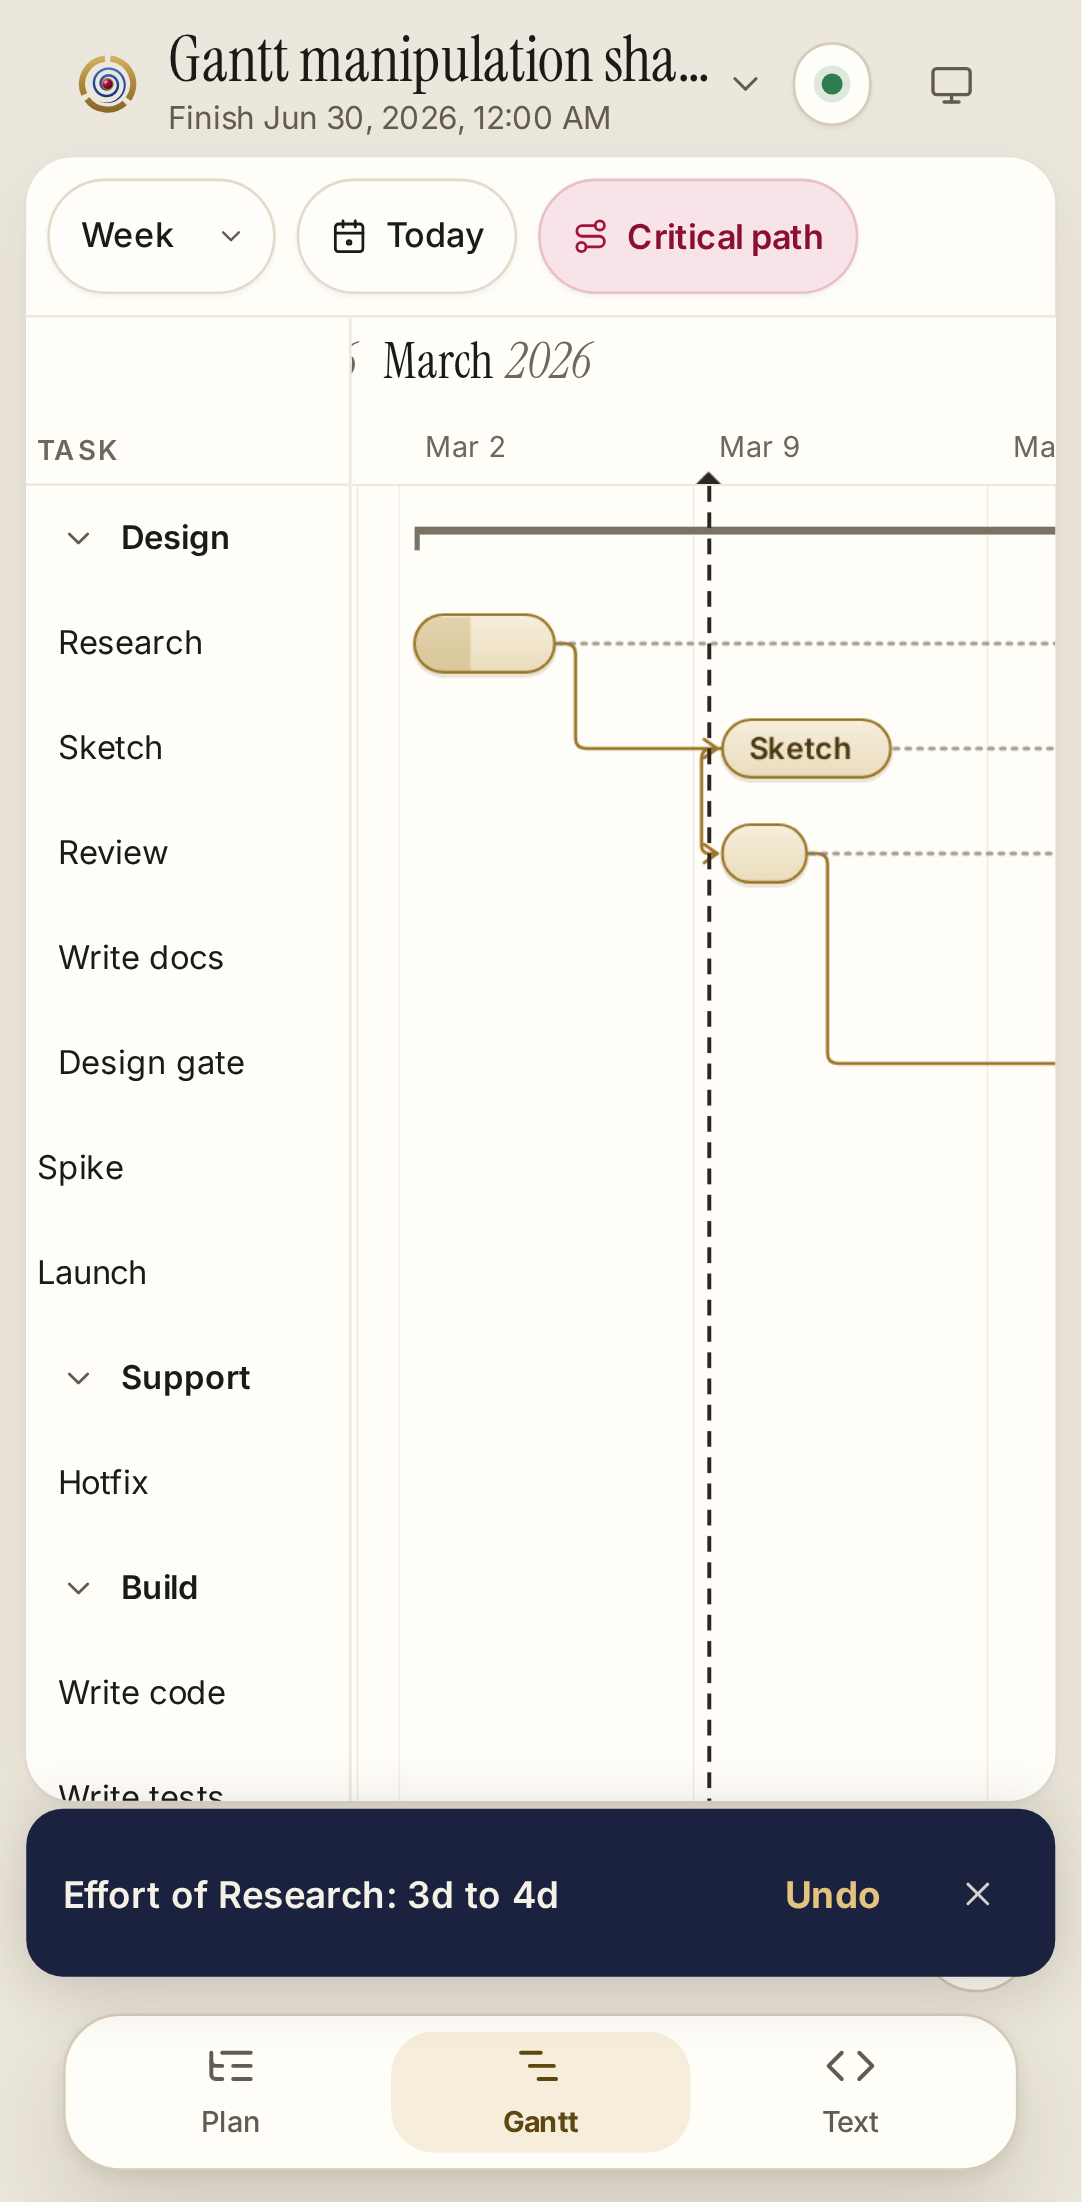
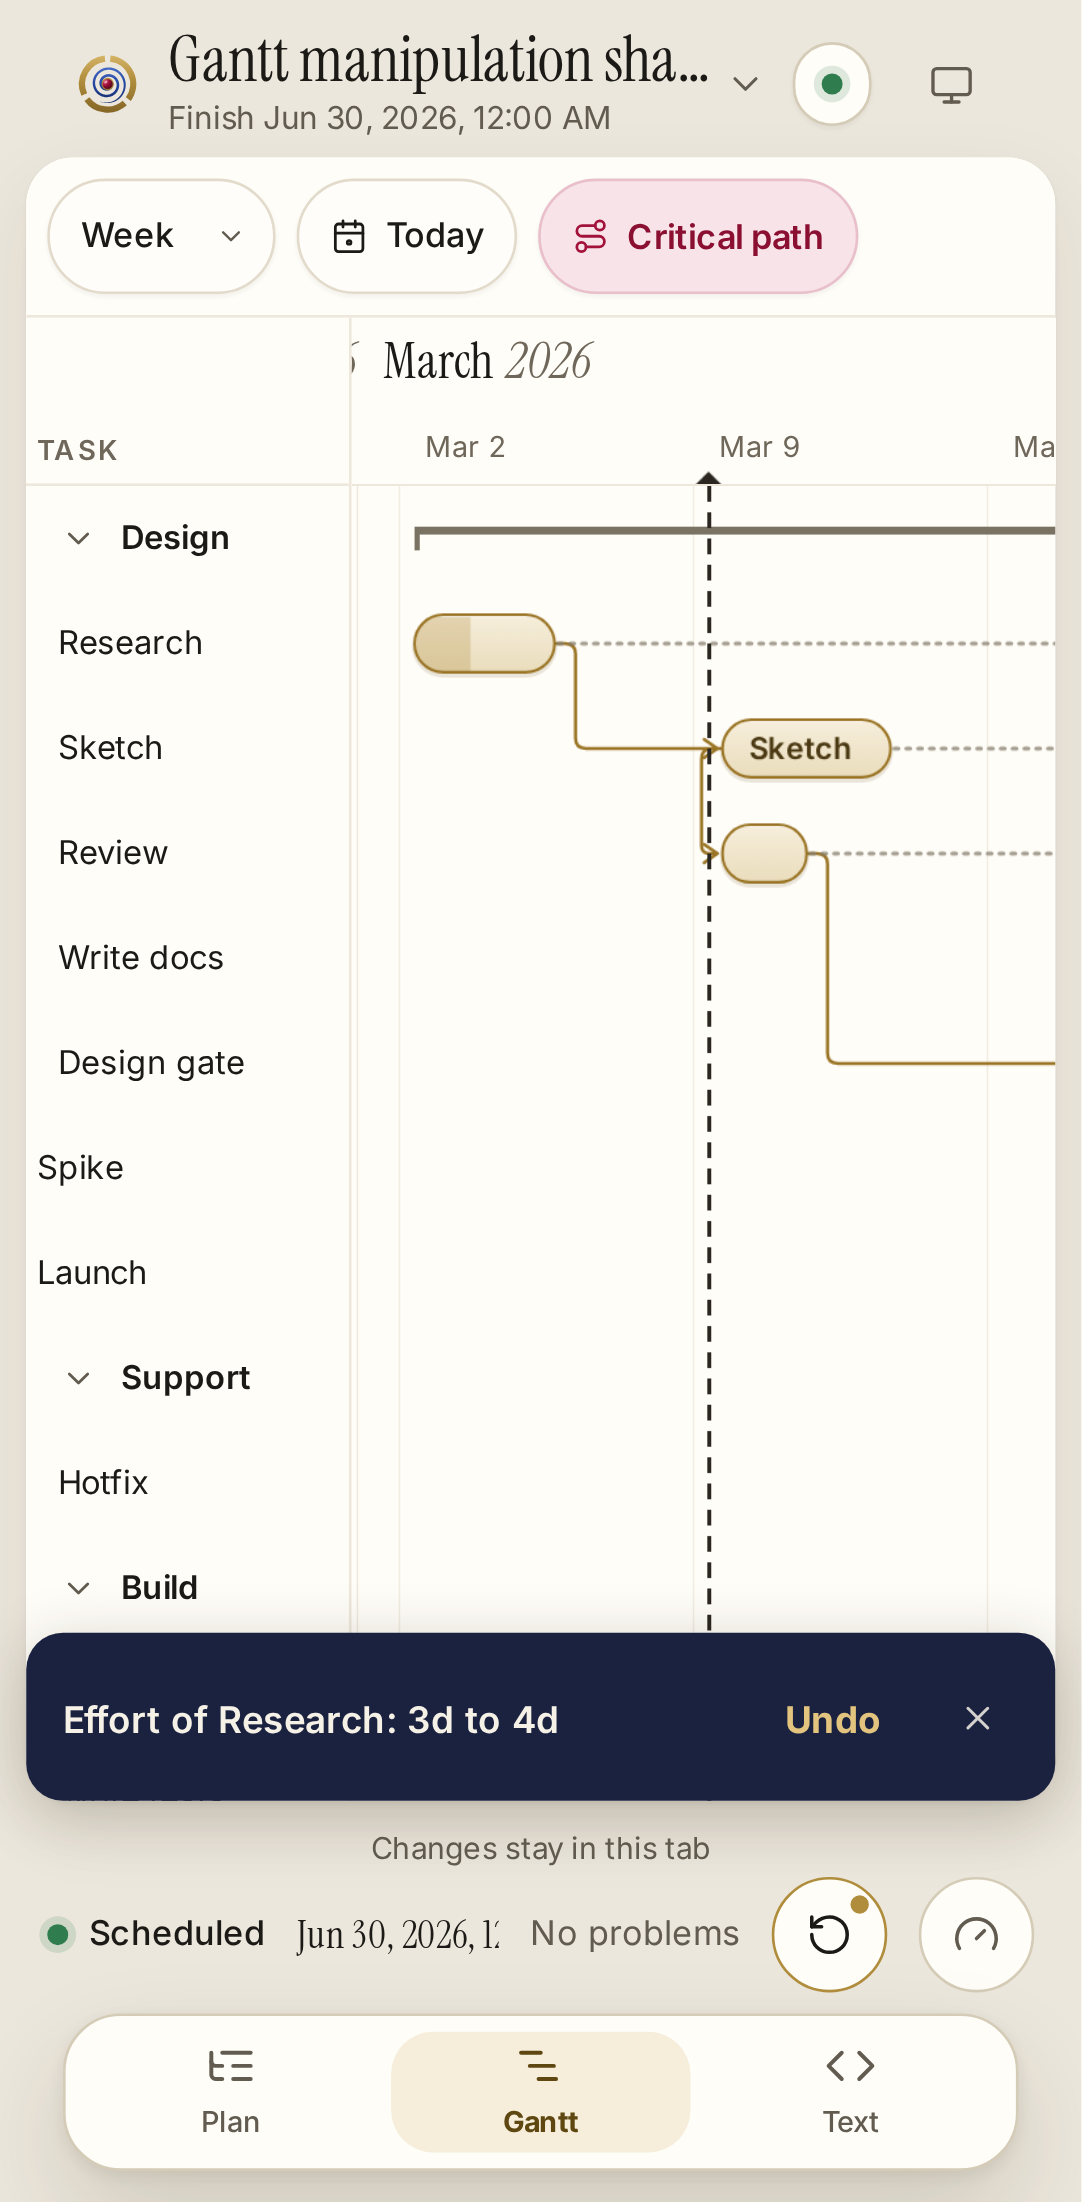
fix(app): toasts sit above the status strip on every layout (T13 review M2)
App.svelte measures the footer's distance from the viewport's bottom and
the toasts sit just above it, so the status and the update reload button
stay visible on phones. edit-dispatch.spec.ts offers an update and
checks that the toast covers neither; screenshots re-taken.

Claude-Session: https://claude.ai/code/session_018x5vMW7RJi75erXSGU1vHa

Changed region(s): [[0.0, 0.7411, 0.976, 0.9264]]

diff --git a/tests/e2e/edit-dispatch.spec.ts b/tests/e2e/edit-dispatch.spec.ts
@@ -3,7 +3,9 @@
 // the test dispatches a real Gantt action through the `?hooks=edits` hook (edit-hooks.ts), which
 // calls the same `dispatchAction` a drop will. It shows the toast, the patch in the text (the
 // editor too in Split on desktop), the engine's reschedule, and Undo in the toast restoring the
-// text byte for byte. Desktop Chrome and Pixel 7. With SCREENSHOTS=1 it writes
+// text byte for byte. A newer build is offered (ADR-0012), so the status strip shows its reload
+// button: the toast must cover neither (review M2). Desktop Chrome and Pixel 7. With SCREENSHOTS=1
+// it writes
 // docs/phases/screenshots/phase-2/toast-<project>-<light|dark>.png.
 import path from 'node:path';
 import { expect, test, type Page } from '@playwright/test';
@@ -64,6 +66,10 @@ test.describe('a visual edit through the dispatcher', () => {
 
 	test('shows its toast, reschedules, and Undo restores the text', async ({ page }, info) => {
 		const mode = desktop(info) ? 'split' : 'visual';
+		// A newer deployed build: the status strip offers a reload.
+		await page.route('**/version.json*', (route) =>
+			route.fulfill({ json: { id: 'ffffffff-209912312359', builtAt: '2099-12-31T23:59:00Z' } }),
+		);
 		await page.goto(`/app?sample=gantt-manipulation&mode=${mode}&hooks=edits`);
 		await expect(page.getByTestId('engine-status')).toHaveText('Engine: Ready', {
 			timeout: READY_TIMEOUT_MS,
@@ -100,6 +106,21 @@ test.describe('a visual edit through the dispatcher', () => {
 		const end1 = await h.end('design.research');
 		expect(end1).toBeGreaterThan(end0 ?? 0);
 		await expect(status).toContainText('Scheduled');
+
+		// The toast sits above the footer: the status and the reload button stay visible.
+		const reload = page.getByRole('button', { name: /new version of Mainspring is available/ });
+		await expect(reload).toBeVisible({ timeout: 10_000 });
+		const box = await toast.boundingBox();
+		for (const covered of [status, reload]) {
+			const b = await covered.boundingBox();
+			expect(box && b, 'boxes').toBeTruthy();
+			if (box && b) expect(box.y + box.height).toBeLessThanOrEqual(b.y);
+		}
+		const hit = await reload.evaluate((el) => {
+			const r = el.getBoundingClientRect();
+			return el.contains(document.elementFromPoint(r.x + r.width / 2, r.y + r.height / 2));
+		});
+		expect(hit, 'nothing is drawn over the reload button').toBe(true);
 
 		const undo = toast.getByRole('button', { name: 'Undo' });
 		await expect(undo).toBeEnabled();

diff --git a/src/components/app/Toasts.svelte b/src/components/app/Toasts.svelte
@@ -7,8 +7,10 @@
 	(ADR-0008); it then does exactly what Mod-Z does. "No longer schedules", failures and refusals
 	stay until dismissed; they offer Show, which puts the cursor on the place in the text.
 
-	Desktop and tablet: the bottom-right corner, above the status strip. Phone: centred above the
-	floating tab bar. The list reads `app.edits`; it draws nothing while no plan is open.
+	Desktop and tablet: the bottom-right corner; phone: full width. Always just above the footer
+	(the status strip and its reload button stay visible): `bottom` is the footer's distance from
+	the viewport's bottom, measured by App.svelte; the CSS offsets are the fallback before that.
+	The list reads `app.edits`; it draws nothing while no plan is open.
 -->
 <script lang="ts">
 	import type { AppState } from '../../lib/state/app.svelte';
@@ -16,7 +18,13 @@
 	import { toastStrings as S } from '../../lib/strings';
 	import Icon from '../Icon.svelte';
 
-	let { app, phone = false }: { app: AppState; phone?: boolean } = $props();
+	interface Props {
+		app: AppState;
+		phone?: boolean;
+		/** Pixels from the viewport's bottom to the footer's top; null before it is measured. */
+		bottom?: number | null;
+	}
+	let { app, phone = false, bottom = null }: Props = $props();
 
 	const edits = $derived(app.edits);
 	const list = $derived(edits?.toasts ?? []);
@@ -24,7 +32,12 @@
 		t.status === 'not-scheduled' || t.status === 'failed' || t.status === 'refused';
 </script>
 
-<section class="toasts" class:phone aria-label={S.region}>
+<section
+	class="toasts"
+	class:phone
+	aria-label={S.region}
+	style:inset-block-end={bottom === null ? undefined : `${bottom + 8}px`}
+>
 	<div role="status" aria-live="polite" aria-relevant="additions text" class="stack">
 		{#each list as t (t.id)}
 			<div class="toast" data-testid="toast" data-status={t.status} class:problem={problem(t)}>
@@ -72,11 +85,11 @@
 		inline-size: min(26rem, calc(100vw - 2 * var(--gutter)));
 		pointer-events: none;
 	}
-	/* Phones: centred, above the floating tab bar (its height, margins and the safe area). */
+	/* Phones: full width; the fallback clears the tab bar and the compact status strip. */
 	.toasts.phone {
 		inset-inline: 10px;
 		inline-size: auto;
-		inset-block-end: calc(var(--size-tabbar) + 26px + env(safe-area-inset-bottom));
+		inset-block-end: calc(var(--size-tabbar) + 72px + env(safe-area-inset-bottom));
 	}
 	.stack {
 		display: flex;

diff --git a/src/components/App.svelte b/src/components/App.svelte
@@ -111,6 +111,30 @@
 	/** The editor (side by side) or the Gantt (stacked, above) takes `ratio`; the divider is the gap. */
 	const splitTracks = $derived(`minmax(0, ${ratio}fr) var(--gap-panel) minmax(0, ${1 - ratio}fr)`);
 
+	/**
+	 * The toasts sit just above the footer (the notice and the status strip), on every layout, so
+	 * they never cover the status or its reload button: its distance from the viewport's bottom,
+	 * measured whenever the footer or the viewport changes size.
+	 */
+	let footer: HTMLElement | undefined = $state();
+	let toastBottom = $state<number | null>(null);
+	$effect(() => {
+		const el = footer;
+		if (!el) return;
+		const measure = (): void => {
+			toastBottom = Math.max(0, Math.round(window.innerHeight - el.getBoundingClientRect().top));
+		};
+		const ro = new ResizeObserver(measure);
+		ro.observe(el);
+		ro.observe(document.documentElement);
+		window.addEventListener('resize', measure);
+		measure();
+		return () => {
+			ro.disconnect();
+			window.removeEventListener('resize', measure);
+		};
+	});
+
 	function onkeydown(event: KeyboardEvent): void {
 		const next = phone ? null : modeForKey(event);
 		if (next === null) return;
@@ -192,13 +216,13 @@
 			</div>
 		{/if}
 	</main>
-	<div class="footer">
+	<div class="footer" bind:this={footer}>
 		{#if showNotice}<p class="notice">{strings.notice}</p>{/if}
 		{#if phone}<p class="notice compact">{strings.noticeShort}</p>{/if}
 		<StatusStrip {app} {updates} compact={phone} quiet={showGantt} />
 	</div>
 	{#if phone}<TabBar {app} onchange={pickTab} />{/if}
-	<Toasts {app} {phone} />
+	<Toasts {app} {phone} bottom={toastBottom} />
 	{#if drawer}
 		<Sheet
 			open={app.outlineOpen}
